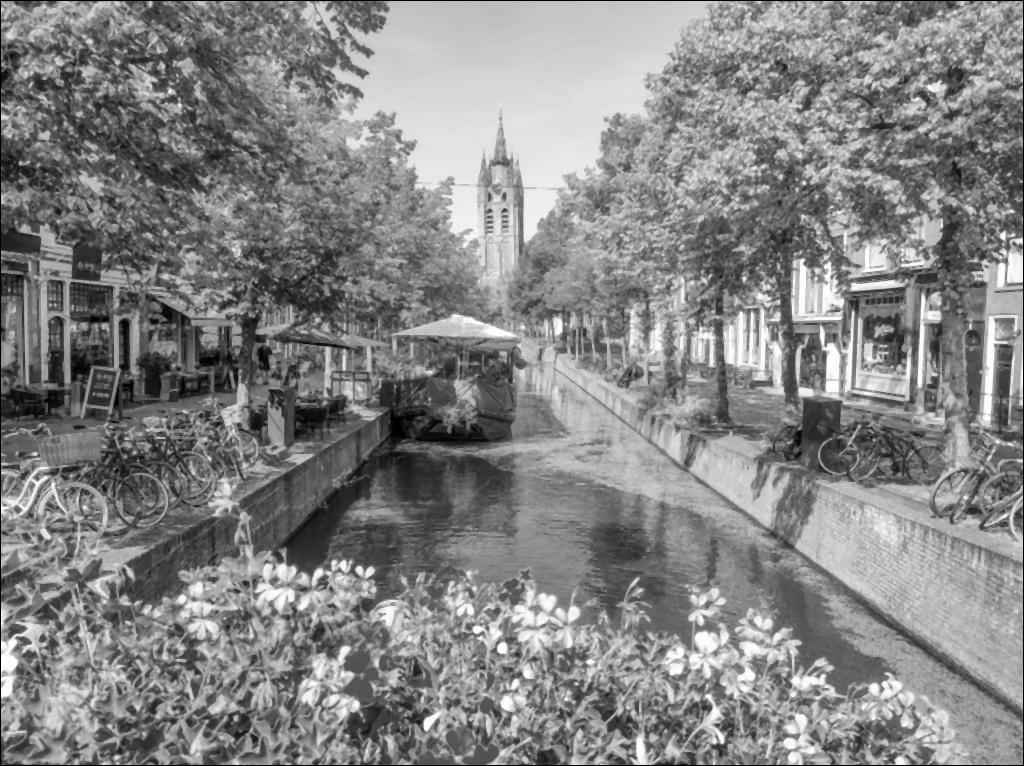
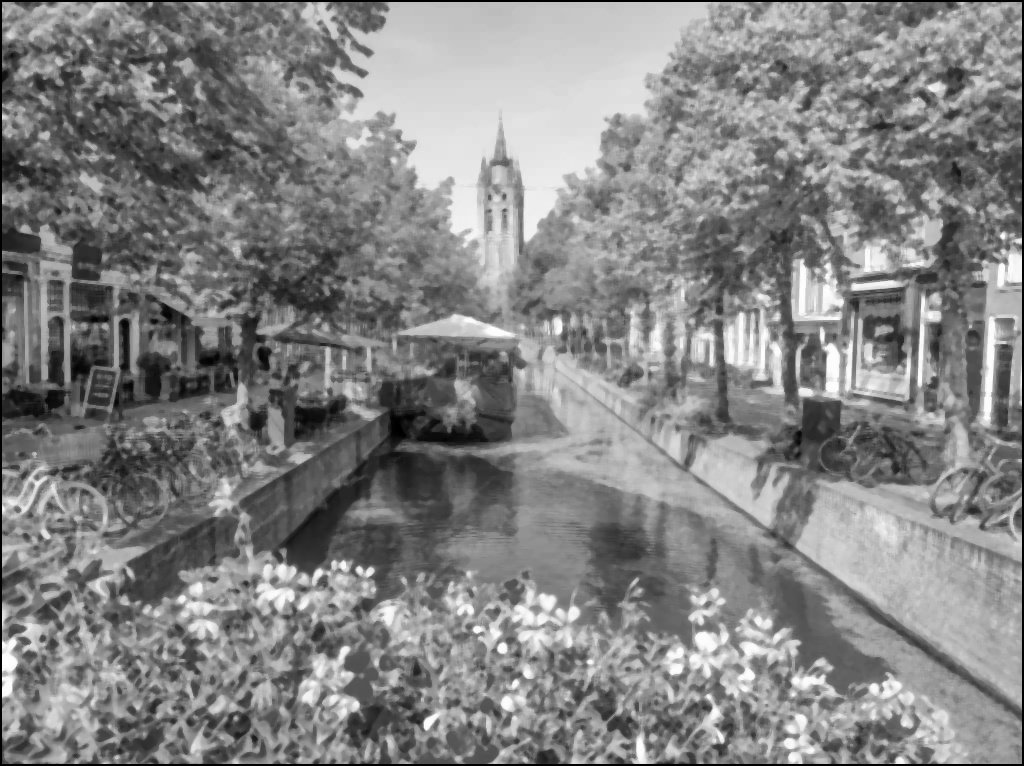
Step3 verified

diff --git a/py_cartoonize_byStep/03_adaptive_threshold.py b/py_cartoonize_byStep/03_adaptive_threshold.py
@@ -1,51 +1,120 @@
 import cv2
 import numpy as np
 
-def adaptive_threshold_hls_model(img, max_value=255, ksize=7, C=7):
+def adaptive_threshold_optimized(img, max_value=255, ksize=7, C=7):
     """
-    Unpacked version of cv2.adaptiveThreshold(..., cv2.ADAPTIVE_THRESH_MEAN_C, ...).
-    Logic: Compare pixel to (Local_Mean - C).
+    HLS Streaming Model with Optimized Sliding Window Sum.
+    Complexity reduced from O(K^2) to O(K) per pixel.
     """
     height, width = img.shape
     output = np.zeros((height, width), dtype=np.uint8)
-    pad = ksize // 2
-    
-    # Area of the window for mean calculation
-    area = ksize * ksize
 
-    for y in range(pad, height - pad):
-        for x in range(pad, width - pad):
-            local_sum = 0
+    # --- HARDWARE BUFFERS ---
+    # 1. Line Buffer: Stores K-1 rows of pixels.
+    line_buffer = np.zeros((ksize - 1, width), dtype=np.uint8)
+    
+    # 2. Window Buffer: The active KxK pixel kernel.
+    window_buffer = np.zeros((ksize, ksize), dtype=np.uint8)
+    
+    # 3. Column Sum Buffer (Optimization): 
+    #    Stores the pre-calculated sum of each column currently in the window.
+    #    Size K (e.g., 7).
+    col_sums_buffer = np.zeros(ksize, dtype=np.int32)
+
+    # State variable for the running sum of the entire window
+    current_window_sum = 0
+    
+    # Constants
+    pad = ksize // 2
+    area = ksize * ksize
+    
+    print(f"Streaming Optimized Adaptive Threshold (Sliding Sum, K={ksize})...")
+
+    # --- STREAMING LOOP ---
+    for y in range(height):
+        
+        # Reset running sum mechanisms at the start of every row
+        # (In hardware, this happens naturally via HLS control signals)
+        current_window_sum = 0
+        col_sums_buffer.fill(0)
+        
+        for x in range(width):
             
-            # Calculate sum of neighborhood
-            for ky in range(-pad, pad + 1):
-                for kx in range(-pad, pad + 1):
-                    local_sum += int(img[y + ky, x + kx])
+            # 1. READ & UPDATE LINE BUFFER
+            new_pixel = img[y, x]
             
-            # Calculate Mean (Integer division)
-            local_mean = local_sum // area
+            # Shift window pixels left
+            window_buffer[:, :-1] = window_buffer[:, 1:]
             
-            # Threshold Logic
-            pixel = img[y, x]
-            threshold_val = local_mean - C
+            # Get the column from line buffer (past rows)
+            col_from_buffer = line_buffer[:, x].copy()
             
-            # THRESH_BINARY logic:
-            if pixel > threshold_val:
-                output[y, x] = max_value
-            else:
-                output[y, x] = 0
+            # Update window right-most column
+            window_buffer[:-1, -1] = col_from_buffer
+            window_buffer[-1, -1] = new_pixel
+            
+            # Update Line Buffer (Store new_pixel for future rows)
+            line_buffer[:-1, x] = line_buffer[1:, x]
+            line_buffer[-1, x] = new_pixel
+
+            # --- OPTIMIZED SUMMATION LOGIC ---
+            
+            # A. Calculate sum of the NEW column (entering from right)
+            #    (In hardware, this is an adder chain of K elements)
+            new_col_sum = np.sum(window_buffer[:, -1])
+            
+            # B. Identify sum of the OLD column (leaving to the left)
+            #    We retrieve this from our history buffer before we overwrite it.
+            #    col_sums_buffer[0] is the left-most column sum.
+            old_col_sum = col_sums_buffer[0]
+            
+            # C. Update the Total Window Sum
+            #    New Sum = Old Sum + New Column - Old Column
+            current_window_sum = current_window_sum + new_col_sum - old_col_sum
+            
+            # D. Update Column Sum Buffer
+            #    Shift left, and put new column sum at the end
+            col_sums_buffer[:-1] = col_sums_buffer[1:]
+            col_sums_buffer[-1] = new_col_sum
+
+            # --- THRESHOLD LOGIC ---
+            # Valid only after buffer is primed
+            if y >= ksize - 1 and x >= ksize - 1:
+                
+                # We already have the sum! No loops needed here.
+                local_mean = current_window_sum // area
+                
+                # Center pixel is at [pad, pad]
+                center_pixel = window_buffer[pad, pad]
+                
+                threshold_val = local_mean - C
+                
+                out_y = y - pad
+                out_x = x - pad
+                
+                if center_pixel > threshold_val:
+                    output[out_y, out_x] = max_value
+                else:
+                    output[out_y, out_x] = 0
 
     return output
 
 def main():
-    img = cv2.imread("step2_blurred.jpg", cv2.IMREAD_GRAYSCALE)
-    if img is None: return
-
-    print("Running Adaptive Threshold HLS Model...")
-    edges = adaptive_threshold_hls_model(img, max_value=255, ksize=7, C=7)
+    # Update to your actual path
+    input_path = "D:\\PracticeProject\\TUD_RClab\\cartoonize_rcd\\py_cartoonize_byStep\\output\\step2_median_blur.jpg"
+    img = cv2.imread(input_path, cv2.IMREAD_GRAYSCALE)
     
-    cv2.imwrite("step3_edges.jpg", edges)
-    print("Saved step3_edges.jpg")
+    if img is None:
+        print(f"Error: Could not read input image at {input_path}")
+        return
+
+    # Run optimized model
+    edges = adaptive_threshold_optimized(img, max_value=255, ksize=7, C=7)
+    
+    # Save
+    output_path = "D:\\PracticeProject\\TUD_RClab\\cartoonize_rcd\\py_cartoonize_byStep\\output\\step3_adaptThresh_optimized.jpg"
+    cv2.imwrite(output_path, edges)
+    print(f"Saved optimized result to {output_path}")
 
 if __name__ == "__main__":
     main()

diff --git a/py_cartoonize_byStep/02_median_blur.py b/py_cartoonize_byStep/02_median_blur.py
@@ -1,6 +1,8 @@
 import cv2
 import numpy as np
 
+K_SIZE = 5  # Kernel size for median blur, must be odd
+
 def hls_bubble_sort_kernel(window_list):
     """ Same hardware-friendly sort as before """
     buffer = list(window_list) # Copy to avoid reference issues
@@ -11,7 +13,7 @@ def hls_bubble_sort_kernel(window_list):
                 buffer[j], buffer[j+1] = buffer[j+1], buffer[j]
     return buffer
 
-def median_blur_line_buffer_model(img, ksize=3):
+def median_blur_line_buffer_model(img, ksize=K_SIZE):
     height, width = img.shape
     output = np.zeros((height, width), dtype=np.uint8)
     
